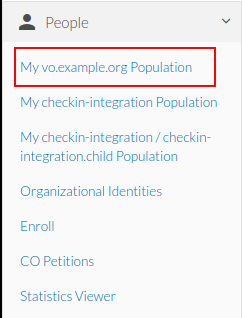
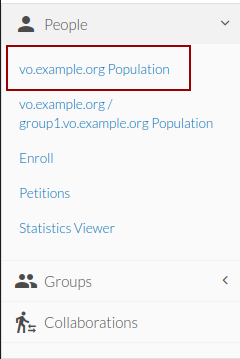
Update main menu screenshots for VO admins (#367)

diff --git a/content/en/users/check-in/vos/_index.md b/content/en/users/check-in/vos/_index.md
@@ -57,14 +57,14 @@ A step-by-step guide for the VO registration process is provided in the procedur
    login credentials already linked to your EGI account.
 
 1. To view the existing members, expand the **People** drop down menu and click
-   on **My _VO-NAME_ Population** (for example, **My vo.example.org
+   on **_VO-NAME_ Population** (for example, **vo.example.org
    Population**)
 
-   ![My VO population menu](./check-in-my-vo-population.png)
+   ![VO population menu](./check-in-my-vo-population.png)
 
 1. Then you are able to see all the VO members.
 
-   ![My VO population](./check-in-my-vo-population-result.png)
+   ![VO population](./check-in-my-vo-population-result.png)
 
 ### Accepting new VO members
 
@@ -131,10 +131,10 @@ uniqueness.
 1. Login to [Check-in registry](https://aai.egi.eu/registry) using any of the
    login credentials already linked to your EGI account.
 
-1. Then expand the **People** drop down menu and click **My `<VO-NAME>`
-   Population** (for example, **My vo.example.org Population**)
+1. Then expand the **People** drop down menu and click **`<VO-NAME>`
+   Population** (for example, **vo.example.org Population**)
 
-   ![My VO population menu](./check-in-my-vo-population.png)
+   ![VO population menu](./check-in-my-vo-population.png)
 
 1. Find the user you want to add to the VO Group and click **Edit**.
 
